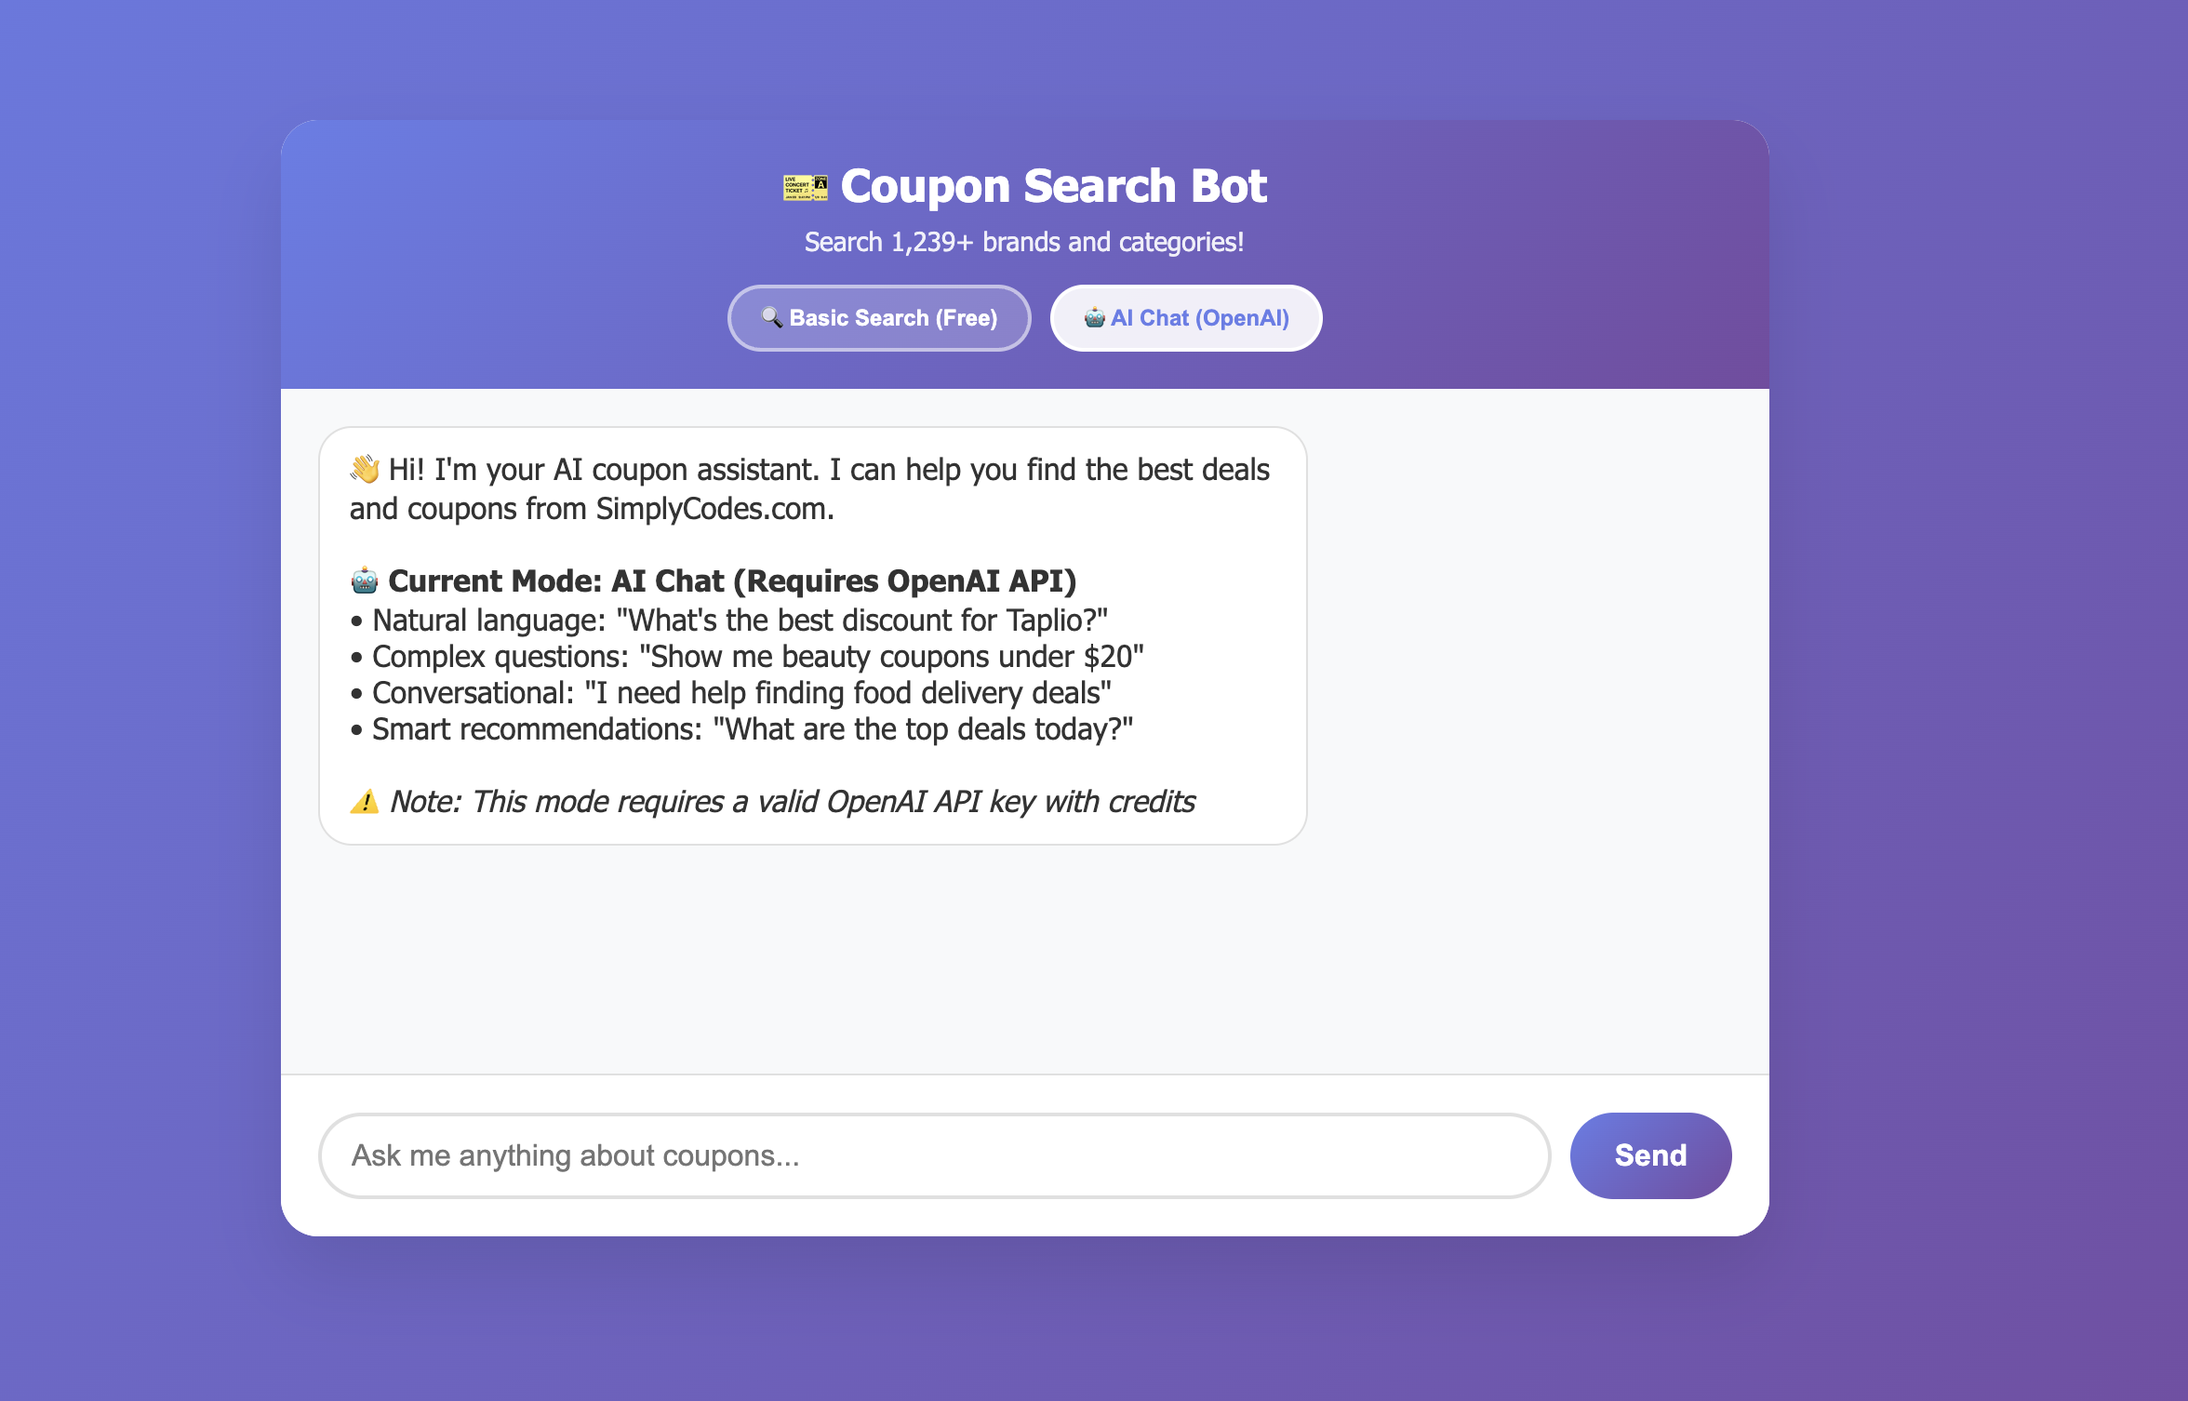
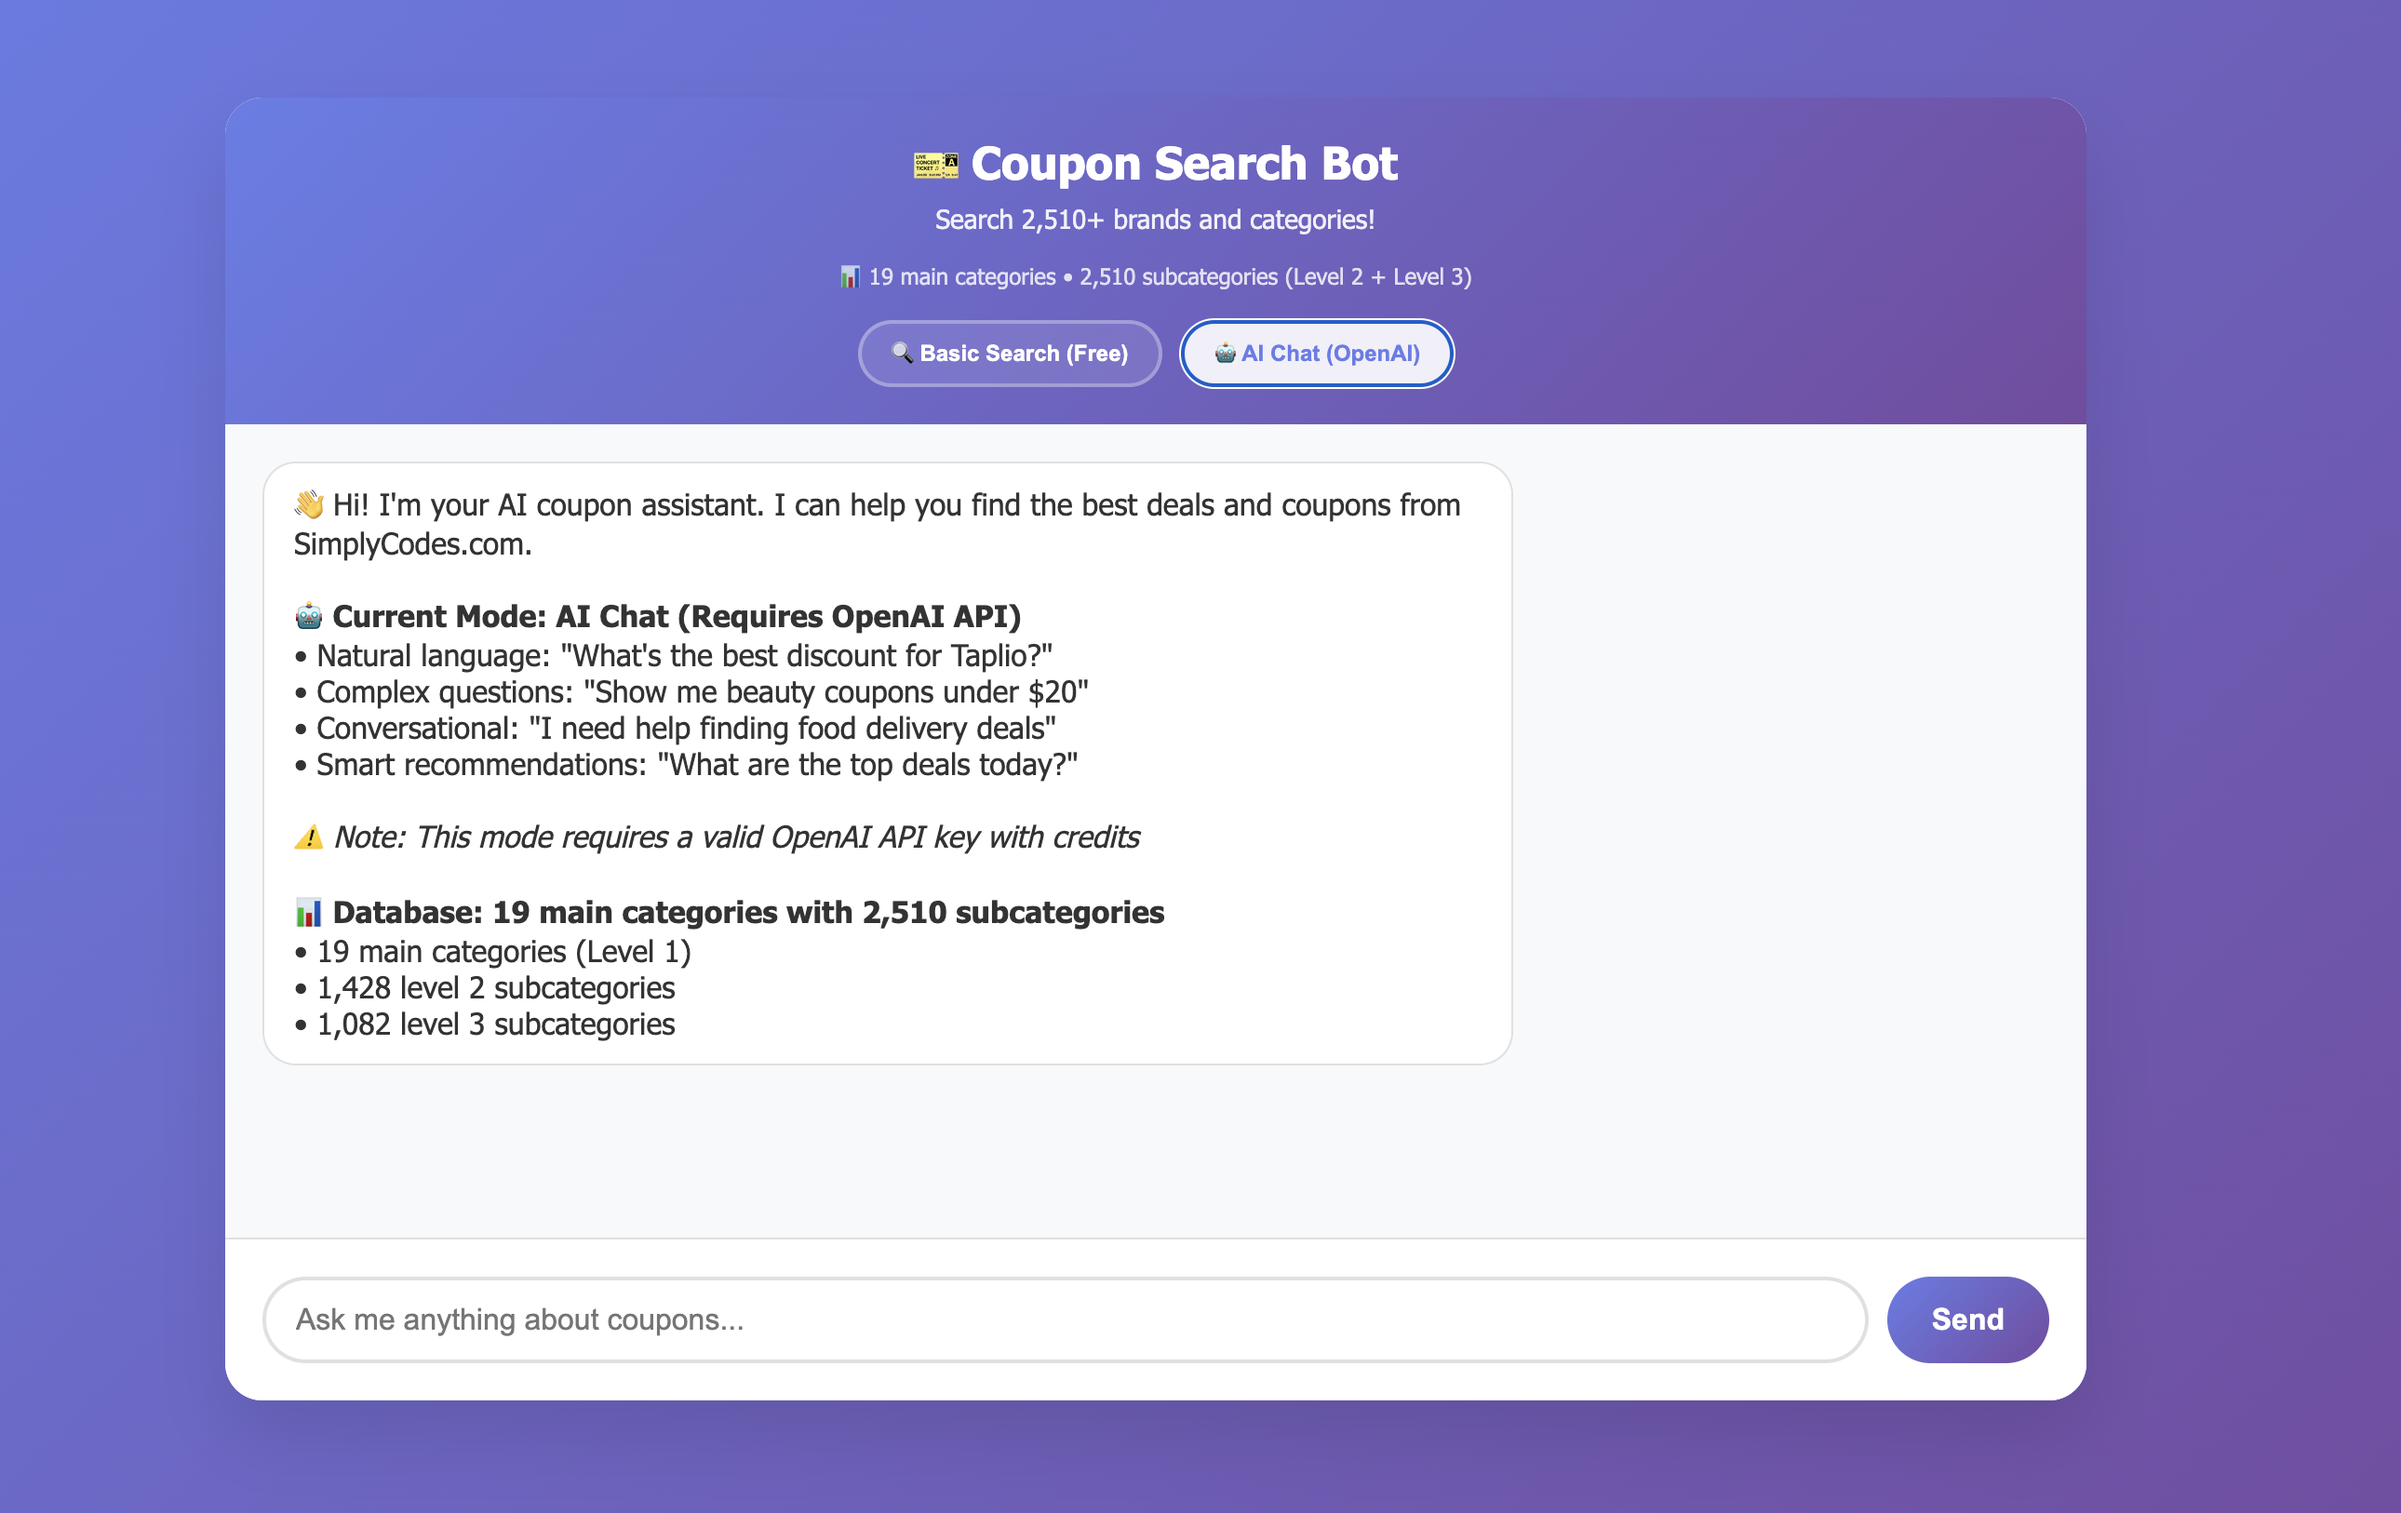
Update demo photos and enhance web interface - Updated demo_photo_free.jpg with new basic search mode screenshot - Updated demo_photo_API.jpg with new AI chat mode screenshot - Enhanced web interface with larger chat window (1000x700px) - Added detailed database breakdown in welcome messages - Fixed

Changed region(s): [[0.0931, 0.2497, 0.869, 0.9363], [0.1552, 0.0936, 0.807, 0.2809]]

diff --git a/llm/web_interface.html b/llm/web_interface.html
@@ -26,8 +26,8 @@
             border-radius: 20px;
             box-shadow: 0 20px 40px rgba(0, 0, 0, 0.1);
             width: 100%;
-            max-width: 800px;
-            height: 600px;
+            max-width: 1000px;
+            height: 700px;
             display: flex;
             flex-direction: column;
             overflow: hidden;
@@ -249,7 +249,8 @@
     <div class="chat-container">
         <div class="chat-header">
             <h1>🎫 Coupon Search Bot</h1>
-            <p>Search 1,239+ brands and categories!</p>
+                            <p>Search 2,510+ brands and categories!</p>
+                <p style="font-size: 12px; opacity: 0.8; margin-top: 5px;">📊 19 main categories • 2,510 subcategories (Level 2 + Level 3)</p>
             <div class="mode-toggle">
                 <button id="basicModeBtn" class="mode-btn active" onclick="switchMode('basic')">
                     🔍 Basic Search (Free)
@@ -316,6 +317,11 @@
                     <br>• Get statistics: "statistics"
                     <br><br>
                     <em>💡 Try searching for: "beauty", "Taplio", "statistics"</em>
+                    <br><br>
+                    <strong>📊 Database: 19 main categories with 2,510 subcategories</strong>
+                    <br>• 19 main categories (Level 1)
+                    <br>• 1,428 level 2 subcategories
+                    <br>• 1,082 level 3 subcategories
                 `;
             } else {
                 welcomeMessage.querySelector('.message-content').innerHTML = `
@@ -328,6 +334,11 @@
                     <br>• Smart recommendations: "What are the top deals today?"
                     <br><br>
                     <em>⚠ Note: This mode requires a valid OpenAI API key with credits</em>
+                    <br><br>
+                    <strong>📊 Database: 19 main categories with 2,510 subcategories</strong>
+                    <br>• 19 main categories (Level 1)
+                    <br>• 1,428 level 2 subcategories
+                    <br>• 1,082 level 3 subcategories
                 `;
             }
         }
@@ -473,6 +484,9 @@
             }
         }
 
+        // Initialize the interface with basic mode
+        switchMode('basic');
+        
         // Focus on input when page loads
         messageInput.focus();
     </script>
